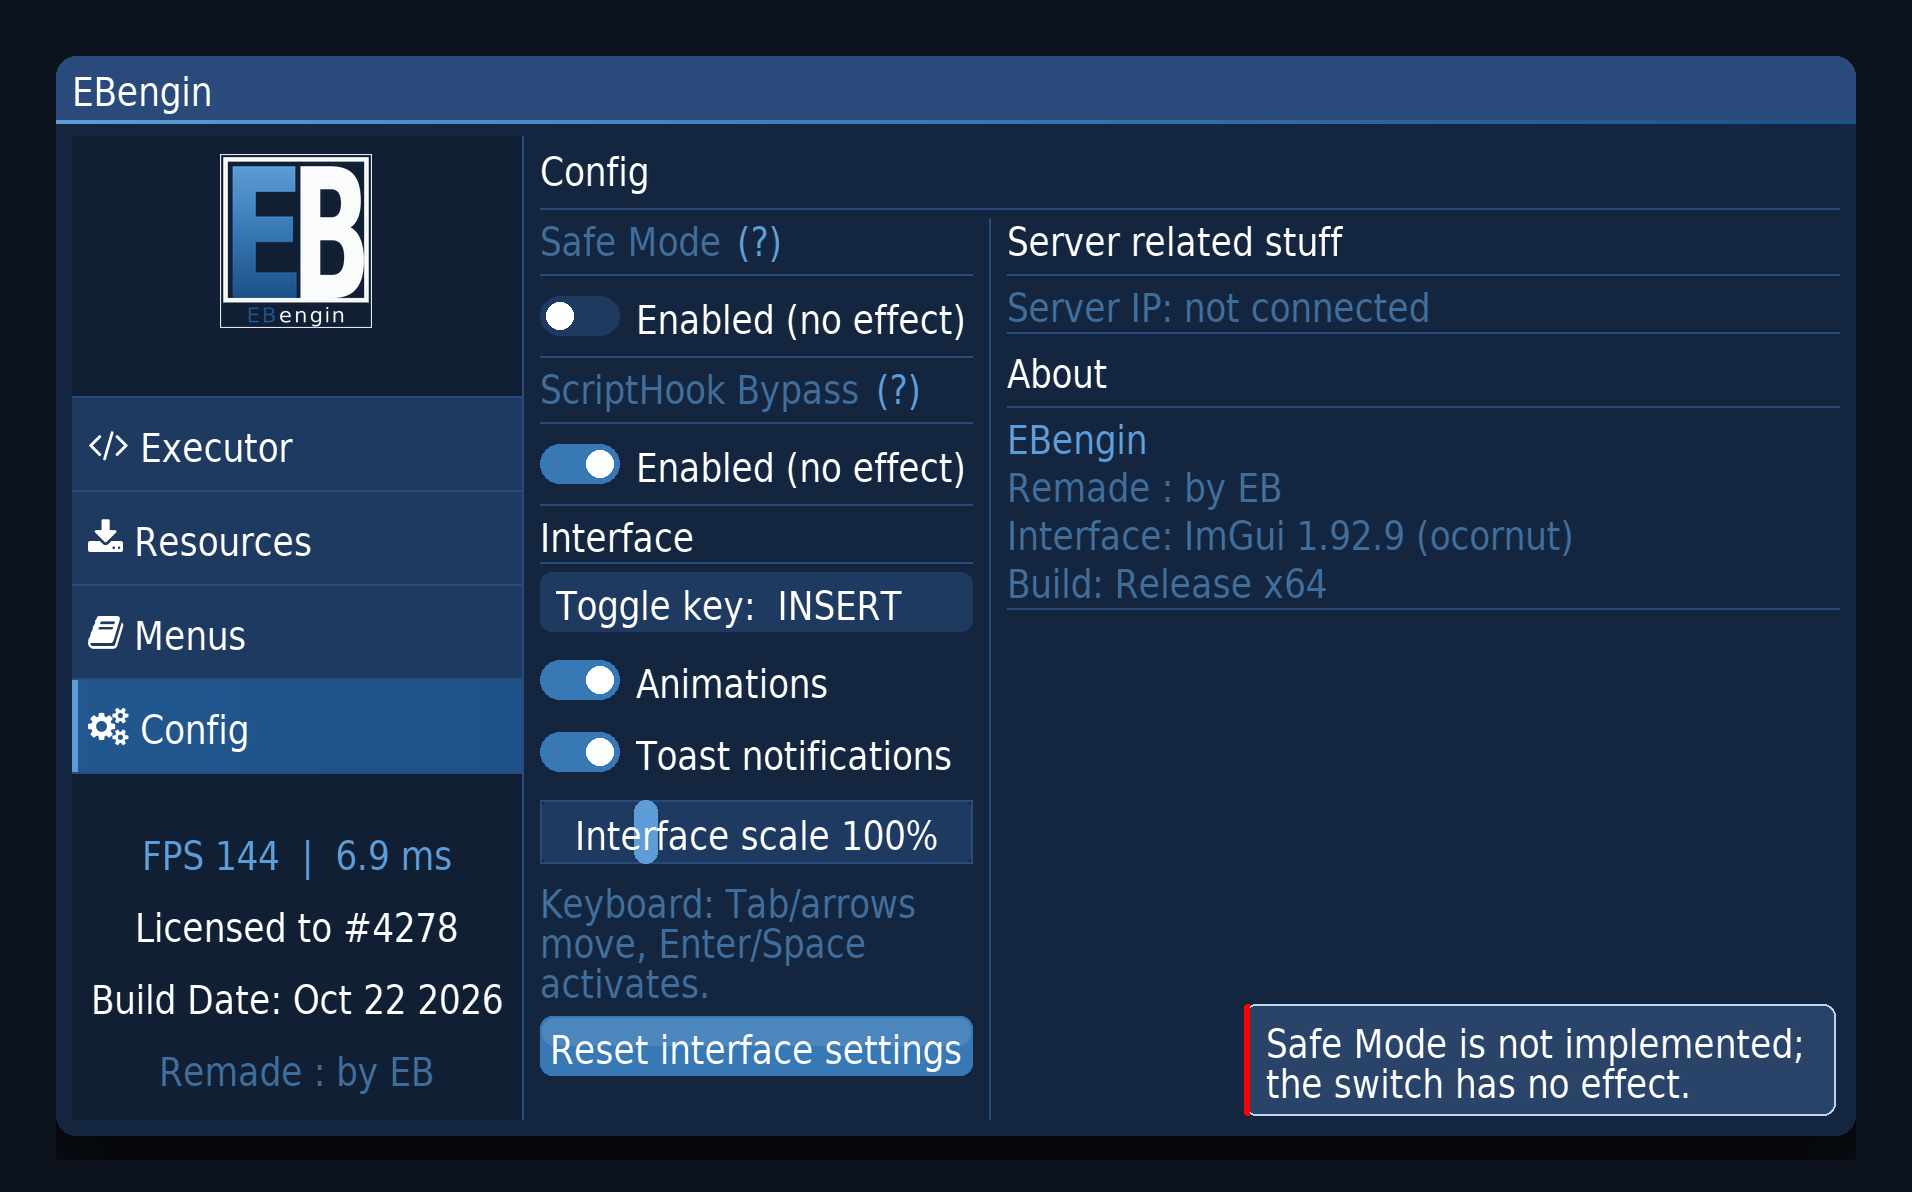
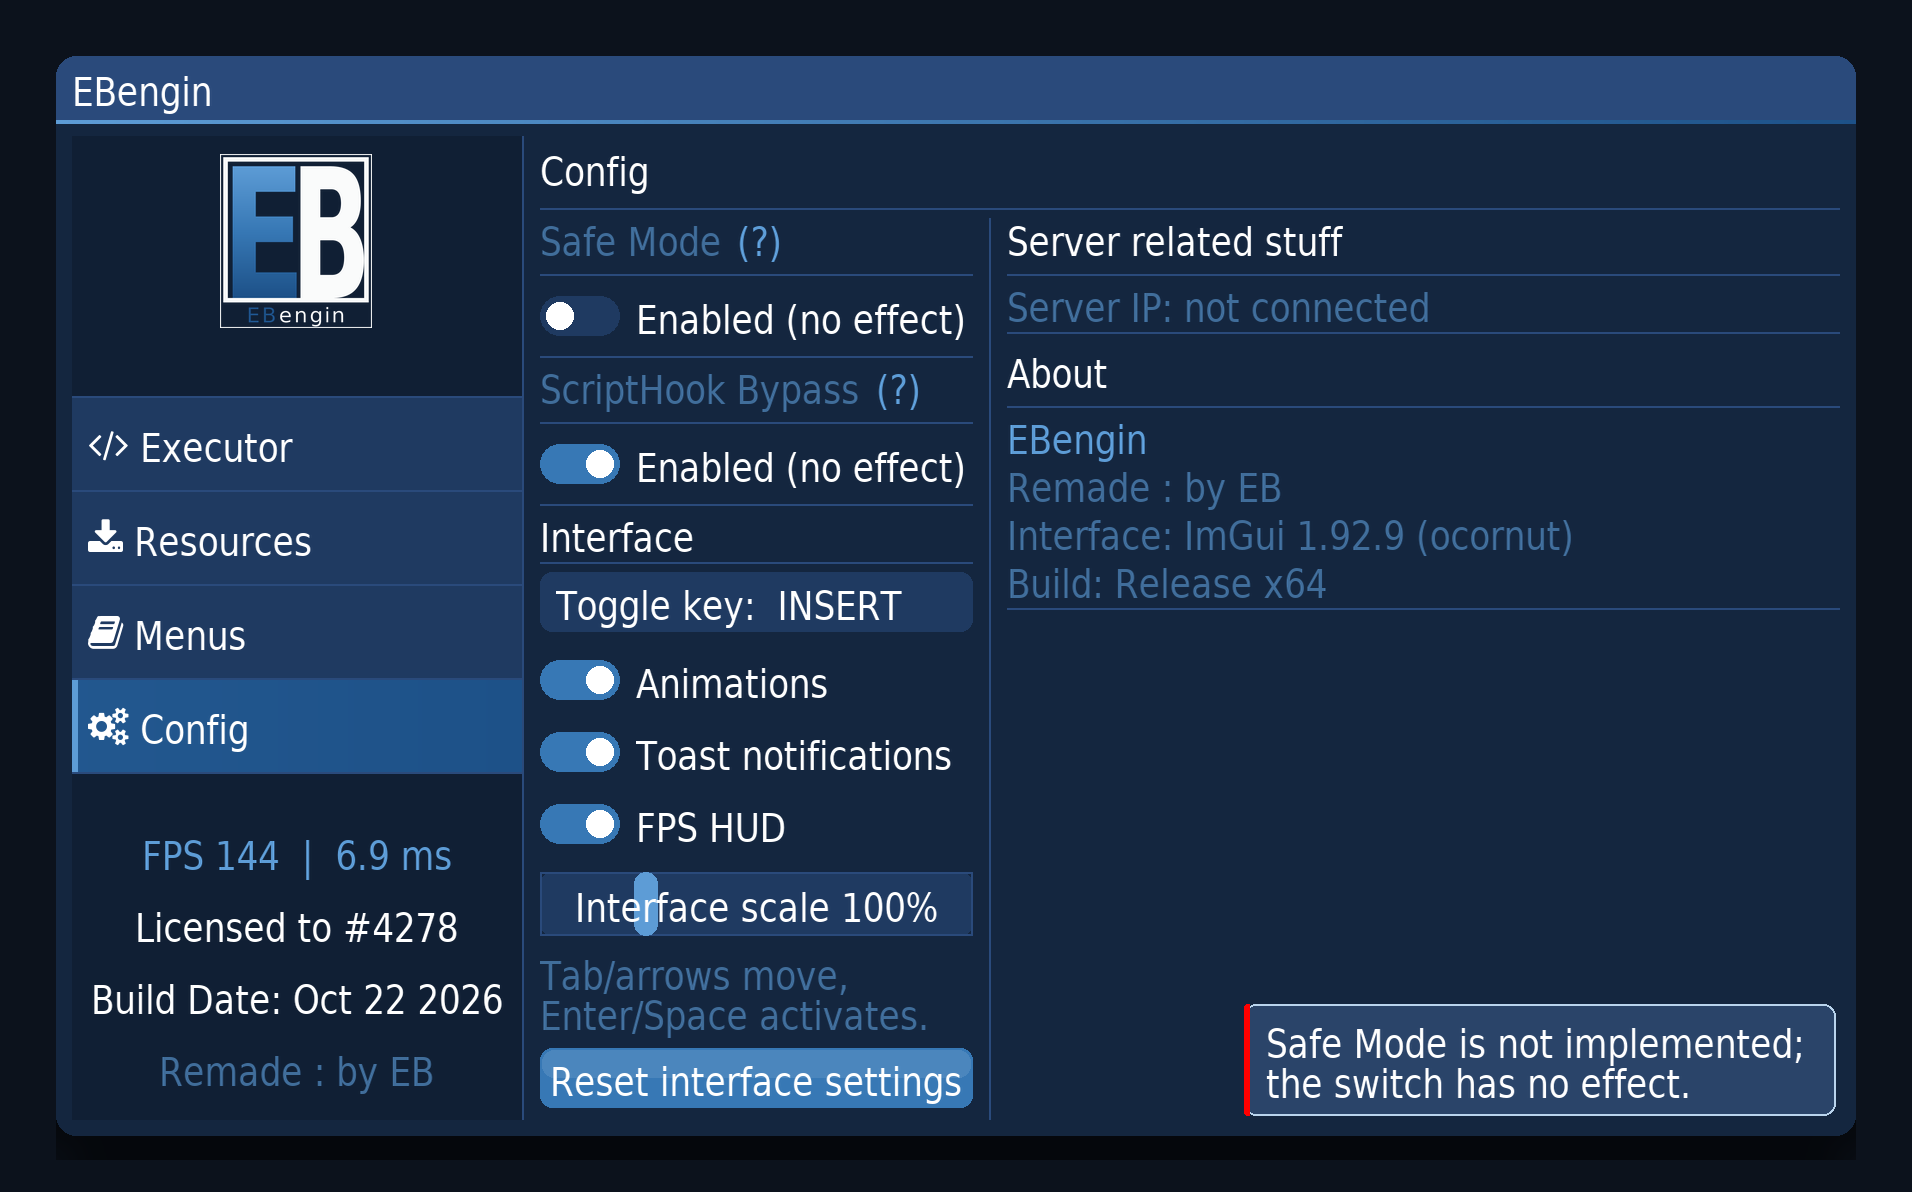
FPS line as HUD plate over the scene while the overlay is closed; row 102

Changed region(s): [[0.2777, 0.6518, 0.5246, 0.9312]]

diff --git a/docs/render_preview.py b/docs/render_preview.py
@@ -61,13 +61,16 @@ elif "--menus" in sys.argv[1:]:
     TAB = "menus"
 elif "--splash" in sys.argv[1:]:
     TAB = "splash"
+elif "--hud" in sys.argv[1:]:
+    TAB = "hud"
 else:
     TAB = "executor"
 OUT = os.path.join(REPO, "docs", {"executor": "preview.png",
                                   "config": "preview_config.png",
                                   "resources": "preview_resources.png",
                                   "menus": "preview_menus.png",
-                                  "splash": "preview_splash.png"}[TAB])
+                                  "splash": "preview_splash.png",
+                                  "hud": "preview_hud.png"}[TAB])
 
 S = 2  # DPI scale: ImGui would render the same at 2x
 
@@ -310,6 +313,38 @@ def wrap_text(s, w):
     return lines
 
 
+if TAB == "hud":
+    # ------------------------------------------------------------------
+    # main.cpp: while the overlay is closed and Settings::Current.Hud is
+    # on, Menu::RenderHud() draws the sidebar's FPS line on the background
+    # draw list - over the game scene, under any window.  The scene is
+    # arbitrary in game, so this render uses a mid-tone stand-in that lets
+    # the 63%-alpha plate read the way it does over a bright frame.
+    # ------------------------------------------------------------------
+    SCENE = RGBA(34, 44, 58)
+    FW, FH = W + 2 * 28, H + 2 * 28
+    canvas = Image.new("RGBA", (FW * S, FH * S), SCENE)
+    d = ImageDraw.Draw(canvas)
+    SURF = canvas
+
+    HUD = "FPS 144  |  6.9 ms"
+    assert TW(HUD) <= FW - 40, "hud line clipped"
+    ts_w, ts_h = TW(HUD), FONT_SIZE
+    pad, pos = 6.0, (10.0, 10.0)
+    plate = Image.new("RGBA", (FW * S, FH * S), (0, 0, 0, 0))
+    ImageDraw.Draw(plate).rounded_rectangle(
+        [(pos[0] - pad) * S, (pos[1] - pad) * S,
+         (pos[0] + ts_w + pad) * S - 1, (pos[1] + ts_h + pad) * S - 1],
+        radius=6 * S, fill=(12, 18, 28, 160))
+    canvas.alpha_composite(plate)
+    d = ImageDraw.Draw(canvas)
+    T(pos[0], pos[1], HUD, C_ACCENT)
+
+    canvas.save(OUT, optimize=True)
+    os.unlink(fa_path)
+    print("geschrieben:", OUT, "(hud)", os.path.getsize(OUT), "Bytes", canvas.size)
+    sys.exit(0)
+
 if TAB == "splash":
     # ------------------------------------------------------------------
     # menu.cpp RenderSplash(): on the first open after inject the branded
@@ -538,7 +573,7 @@ elif TAB == "config":
     TEXT_LH = FONT_SIZE
     C_DIS = RGBA(64, 109, 154)                      # ImGuiCol_TextDisabled (muted accent)
     C_MUTED = blend((93, 156, 214, 153), C_WINDOW_BG)  # TextColored(93,156,214,153)
-    HINT = "Keyboard: Tab/arrows move, Enter/Space activates."
+    HINT = "Tab/arrows move, Enter/Space activates."
 
     T(CX0, CY0 + (LINE_H - FONT_SIZE) / 2, "Config", C_TEXT)
     y = CY0 + LINE_ADV
@@ -617,6 +652,7 @@ elif TAB == "config":
     ly += ITEM_SPACING_Y                              # ImGui::Spacing()
     ly = toggle(lx0, ly, "Animations", True)
     ly = toggle(lx0, ly, "Toast notifications", True)
+    ly = toggle(lx0, ly, "FPS HUD", True)          # Settings::Current.Hud
     ly += ITEM_SPACING_Y
     ly = slider(lx0, ly, pane_w, "Interface scale 100%", (100 - 70) / 130.0)
     ly += ITEM_SPACING_Y
@@ -654,7 +690,7 @@ elif TAB == "config":
     # wrap, so these asserts are what keeps a label from being clipped ---
     for s in ("Safe Mode", "ScriptHook Bypass", "Interface"):
         assert TW(s) + TW("(?)") <= pane_w, "heading clipped: " + s
-    for lab in ("Enabled (no effect)", "Animations", "Toast notifications"):
+    for lab in ("Enabled (no effect)", "Animations", "Toast notifications", "FPS HUD"):
         assert 40 + ITEM_SPACING_X + TW(lab) <= pane_w, "switch clipped: " + lab
     for lab in ("Toggle key:  INSERT", "press any key... (ESC)"):
         assert TW(lab) + 2 * FRAME_PAD_X <= pane_w, "button label clipped: " + lab

diff --git a/menu.cpp b/menu.cpp
@@ -283,6 +283,29 @@ namespace Menu
 		ImGui::PopStyleVar();
 	}
 
+	// FPS / frame-time HUD over the game scene while the overlay is closed: the
+	// same string as the sidebar footer line, drawn on the background draw list
+	// (over the scene, under any ImGui window) with a dark plate behind it so it
+	// stays legible on bright frames.  Interface-level diagnostics only - the
+	// numbers are ImGui's own smoothed present-loop counters, not game state.
+	void RenderHud()
+	{
+		const float fps = ImGui::GetIO().Framerate;
+		char line[48];
+		snprintf(line, sizeof(line), "FPS %.0f  |  %.1f ms",
+			fps, fps > 0.0f ? 1000.0f / fps : 0.0f);
+
+		const ImVec2 ts = ImGui::CalcTextSize(line);
+		const float pad = Settings::Px(6.0f);
+		const ImVec2 pos(Settings::Px(10.0f), Settings::Px(10.0f));
+		ImDrawList* bg = ImGui::GetBackgroundDrawList();
+		bg->AddRectFilled(ImVec2(pos.x - pad, pos.y - pad),
+			ImVec2(pos.x + ts.x + pad, pos.y + ts.y + pad),
+			IM_COL32(12, 18, 28, 160), Settings::Px(6.0f));
+		bg->AddText(ImGui::GetFont(), ImGui::GetFontSize(), pos,
+			ImColor(93, 156, 214, 255), line);
+	}
+
 	void Render()
 	{
 		//Remade : by EB

diff --git a/settings.cpp b/settings.cpp
@@ -28,6 +28,7 @@ namespace Settings
 		Current.ToggleKey = GetPrivateProfileIntA("menu", "togglekey", 0x2D, path.c_str());
 		Current.Animations = GetPrivateProfileIntA("ui", "anim", 1, path.c_str()) != 0;
 		Current.Toasts     = GetPrivateProfileIntA("ui", "toasts", 1, path.c_str()) != 0;
+		Current.Hud        = GetPrivateProfileIntA("ui", "hud", 1, path.c_str()) != 0;
 		Current.ShowWhitespace = GetPrivateProfileIntA("ui", "whitespace", 0, path.c_str()) != 0;
 		Current.ResourceTab    = GetPrivateProfileIntA("menu", "resourcetab", 0, path.c_str());
 		Current.ScalePercent   = GetPrivateProfileIntA("ui", "scale", 100, path.c_str());
@@ -65,6 +66,7 @@ namespace Settings
 		ok = WriteInt("menu", "togglekey", Current.ToggleKey) && ok;
 		ok = WriteInt("ui", "anim", Current.Animations ? 1 : 0) && ok;
 		ok = WriteInt("ui", "toasts", Current.Toasts ? 1 : 0) && ok;
+		ok = WriteInt("ui", "hud", Current.Hud ? 1 : 0) && ok;
 		ok = WriteInt("ui", "whitespace", Current.ShowWhitespace ? 1 : 0) && ok;
 		ok = WriteInt("menu", "resourcetab", Current.ResourceTab) && ok;
 		ok = WriteInt("ui", "scale", Current.ScalePercent) && ok;

diff --git a/config.cpp b/config.cpp
@@ -131,6 +131,11 @@ namespace Config
 			Settings::Save();
 		}
 
+		// The sidebar footer carries this line while the overlay is open; the
+		// HUD keeps it over the scene while the overlay is closed.
+		if (Gui::Toggle("FPS HUD##ui_hud", &Settings::Current.Hud))
+			Settings::Save();
+
 		// Interface scale, 70..200%.  Applied through ImGui 1.92's global font
 		// scale factor (style.FontScaleMain), so the whole shell - fonts, frames,
 		// sidebar, window size - grows together instead of text overflowing fixed
@@ -163,7 +168,7 @@ namespace Config
 		// converts to both ImU32 and ImVec4, which PushStyleColor would find
 		// ambiguous.
 		ImGui::PushStyleColor(ImGuiCol_Text, (ImVec4)ImColor(93, 156, 214, 153));
-		ImGui::TextWrapped("Keyboard: Tab/arrows move, Enter/Space activates.");
+		ImGui::TextWrapped("Tab/arrows move, Enter/Space activates.");
 		ImGui::PopStyleColor();
 
 		ImGui::Spacing();

diff --git a/settings.h b/settings.h
@@ -15,6 +15,7 @@ namespace Settings
 		int ToggleKey = 0x2D;    // VK_INSERT
 		bool Animations = true;  // open fade, sliding tab marker, switch easing
 		bool Toasts     = true;  // non-blocking notifications (toasts.h)
+		bool Hud        = true;  // FPS/frame-time line over the scene, overlay closed
 		bool ShowWhitespace = false;  // editor whitespace dots
 		int  ResourceTab    = 0;      // Resources sub-tab: 0 none, 1 browser, 2 triggers, 3 stopper
 		int  ScalePercent   = 100;    // interface scale 70..200 (%), applied as style.FontScaleMain

diff --git a/menu.h b/menu.h
@@ -58,4 +58,5 @@ namespace Menu
 	// Draws the whole menu window: sidebar column + tab content column.
 	// Implemented in menu.cpp.
 	void Render();
+	void RenderHud();   // FPS/frame-time plate over the scene, overlay closed
 }

diff --git a/main.cpp b/main.cpp
@@ -411,6 +411,8 @@ HRESULT HK_CALL hkPresent(IDXGISwapChain* pSwapChain, UINT SyncInterval, UINT Fl
 
 	if (Menu::IsMenuOpen)
 		Menu::Render();
+	else if (Settings::Current.Hud)
+		Menu::RenderHud();
 
 	ImGui::Render();
 

diff --git a/BUILD.md b/BUILD.md
@@ -232,6 +232,7 @@ Separate from the build fixes above: these are bugs that compiled fine but misbe
 | 99 | The Config About block listed name, credit and ImGui version but not which configuration the loaded DLL was built with - a Debug DLL behaves visibly differently in a host (asserts on, optimisations off) and nothing in the UI said so | The About block ends with an `#ifdef _DEBUG` line: `Build: Debug (asserts on, slower)` versus `Build: Release`; the renderer mirrors the Release wording and width-asserts both variants |
 | 100 | The About build marker said Debug or Release but not the bitness - a Win32 DLL cannot load into a 64-bit host (section 8 says so in prose), yet nothing in the UI distinguished x64 from Win32 | The marker now has four variants via `_DEBUG` / `_WIN64`: `Build: Debug x64 (asserts on, slower)`, `Build: Debug Win32 (asserts on, slower)`, `Build: Release x64`, `Build: Release Win32 (x86)`; the renderer mirrors Release x64 and width-asserts all four |
 | 101 | The theme left several ImGui defaults in stock grey / near-black (TextDisabled, PopupBg, scrollbar grabs) and the sidebar floated as button blocks on the canvas with no panel hierarchy; the selected nav row differed from a pressed button only by the 3px bar | Style refinement, no layout change: sidebar cell painted one notch darker via `TableSetBgColor(CellBg)` (z-safe, under the widgets), selected row gets a left-to-right accent wash (alpha 22->0), pill grabs (`GrabRounding` 6), scrollbar grabs on the raised/hover/pressed ramp, `TextDisabled` = muted accent, popups on canvas navy; the renderer mirrors every stop and re-rendered four previews (splash has no sidebar) |
+| 102 | The FPS/frame-time line existed only in the sidebar footer, i.e. only while the overlay was open - with the overlay closed there was no frame-rate feedback at all | `Menu::RenderHud()` draws the same string as a top-left plate (dark rounded backing for legibility, accent text, background draw list: over the scene, under any window) whenever the overlay is closed; switchable via Config -> `FPS HUD` (default on, persisted as `[ui] hud`).  The switch first overflowed the Config left pane by 18px; the renderer's overflow assert caught it pre-ship and the keyboard hint was compacted from three wrapped lines to two (same information) to make room; new `--hud` preview |
 
 
 
@@ -253,7 +254,7 @@ How the pieces fit together, top to bottom:
 | Tab bodies | `default.cpp`, `exec.cpp`, `resources.cpp`, `luamenus.cpp`, `config.cpp` | Landing (activity log, diagnostics card), executor (TextEditor + toolbar + status line), resources (browser/triggers/stopper + filters + dump), menus (two lists), config (switches, key capture, reset) |
 | Widgets & feedback | `gui.h`, `toasts.*`, `activity.*`, `perf.*`, `settings.*` | `SectionTitle`/`Seperator`/`PrimaryButton`/`Toggle`; toast stack; session log; frame-time ring; `settings.ini` persistence — single-purpose modules, each with its own header |
 | Vendored | `imgui/` (1.92.9), `TextEditor.*`, `stb_image.h`, `font_awesome.*`, `kiero/`, MinHook | In-tree, no submodules; `imgui_demo.cpp` excluded (C4996 under `SDLCheck`) |
-| Docs & render | `README.md`, `BUILD.md`, `CHANGELOG.md`, `docs/render_preview.py`, `docs/preview.png`, `docs/preview_config.png`, `docs/preview_resources.png`, `docs/preview_menus.png`, `docs/preview_splash.png` | The renderer re-draws the shell from the repo's own constants (theme ramps, sidebar metrics, editor palette, the real embedded FA font) — a render, not a screenshot. `--config` renders the Config tab and asserts that every label fits its pane (row 84); `--resources` renders the File Browser sub-tab and caught row 86, `--menus` the Menus tab and caught row 88, `--splash` the first-open start card (row 95). The Triggers pane is never depicted |
+| Docs & render | `README.md`, `BUILD.md`, `CHANGELOG.md`, `docs/render_preview.py`, `docs/preview.png`, `docs/preview_config.png`, `docs/preview_resources.png`, `docs/preview_menus.png`, `docs/preview_splash.png`, `docs/preview_hud.png` | The renderer re-draws the shell from the repo's own constants (theme ramps, sidebar metrics, editor palette, the real embedded FA font) — a render, not a screenshot. `--config` renders the Config tab and asserts that every label fits its pane (row 84); `--resources` renders the File Browser sub-tab and caught row 86, `--menus` the Menus tab and caught row 88, `--splash` the first-open start card (row 95), `--hud` the FPS plate over a scene stand-in (row 102). The Triggers pane is never depicted |
 
 Data flow per frame: `hkPresent` → NewFrame trio → toggle poll → `Menu::Render()` (fade,
 shadow, shell table) → `Tabs::Render()` → tab body → `Toasts::Render()` → position saver →

diff --git a/CHANGELOG.md b/CHANGELOG.md
@@ -9,6 +9,21 @@ say so in the UI - see README and PR #1.
 "row N" refers to the fix table in `BUILD.md` §5.  The PR body carries a summary
 and the verification anchor only; per-batch write-ups live here and in the commits.
 
+## FPS line becomes a HUD
+- `Menu::RenderHud()` draws the sidebar's FPS string as a top-left plate over the game scene
+  whenever the overlay is closed: background draw list (over the scene, under any window),
+  dark rounded backing so it stays legible on bright frames, accent text, scale-aware via
+  `Settings::Px()` and `ImGui::GetFontSize()`.  The numbers remain ImGui's own smoothed
+  present-loop counters - interface diagnostics, not game state.
+- Config -> `FPS HUD` switch (default on), persisted as `[ui] hud` with the other interface
+  prefs; the present loop draws the HUD only while the overlay is closed, so the line is
+  never shown twice.
+- The switch first overflowed the Config left pane by 18px - the renderer's pane-overflow
+  assert caught it before shipping; the keyboard hint was compacted from three wrapped lines
+  to two (same information) to make room.
+- New `--hud` render (`docs/preview_hud.png`) on a mid-tone scene stand-in; README paragraph
+  and table row, BUILD Docs & render row and row 102.
+
 ## Style refinement: depth and palette cohesion (row 101)
 - Nav rail: the sidebar table cell is painted one notch darker than the canvas via
   `TableSetBgColor(ImGuiTableBgTarget_CellBg)` - WindowBg darkened 18%, z-safe because cell

diff --git a/README.md b/README.md
@@ -55,6 +55,12 @@ name and the credit line, dismissed with Continue.  Fifth render
 
 ![EBengin splash card](docs/preview_splash.png)
 
+While the overlay is closed, the frame-rate line lives on as a small HUD plate over
+the scene (Config -> `FPS HUD`, on by default, persisted as `[ui] hud`).  Sixth render
+(`python docs/render_preview.py --hud`), on a mid-tone scene stand-in:
+
+![EBengin FPS HUD](docs/preview_hud.png)
+
 ## Layout
 
 | Path | What it is |
@@ -85,6 +91,7 @@ labelled `Enabled (no effect)`, inert tooltips |
 | [`docs/preview_resources.png`](docs/preview_resources.png) | The same render with the Resources tab open (`--resources`); the Triggers sub-tab is never depicted |
 | [`docs/preview_menus.png`](docs/preview_menus.png) | The same render with the Menus tab open (`--menus`) |
 | [`docs/preview_splash.png`](docs/preview_splash.png) | The first-open start card (`--splash`): logo, credit line, two honest hints, Continue |
+| [`docs/preview_hud.png`](docs/preview_hud.png) | The FPS HUD plate over the scene while the overlay is closed (`--hud`) |
 | [`CHANGELOG.md`](CHANGELOG.md) | One entry per batch on this branch, newest first - the condensed view of the fix table in BUILD.md |
 
 ## Architecture
